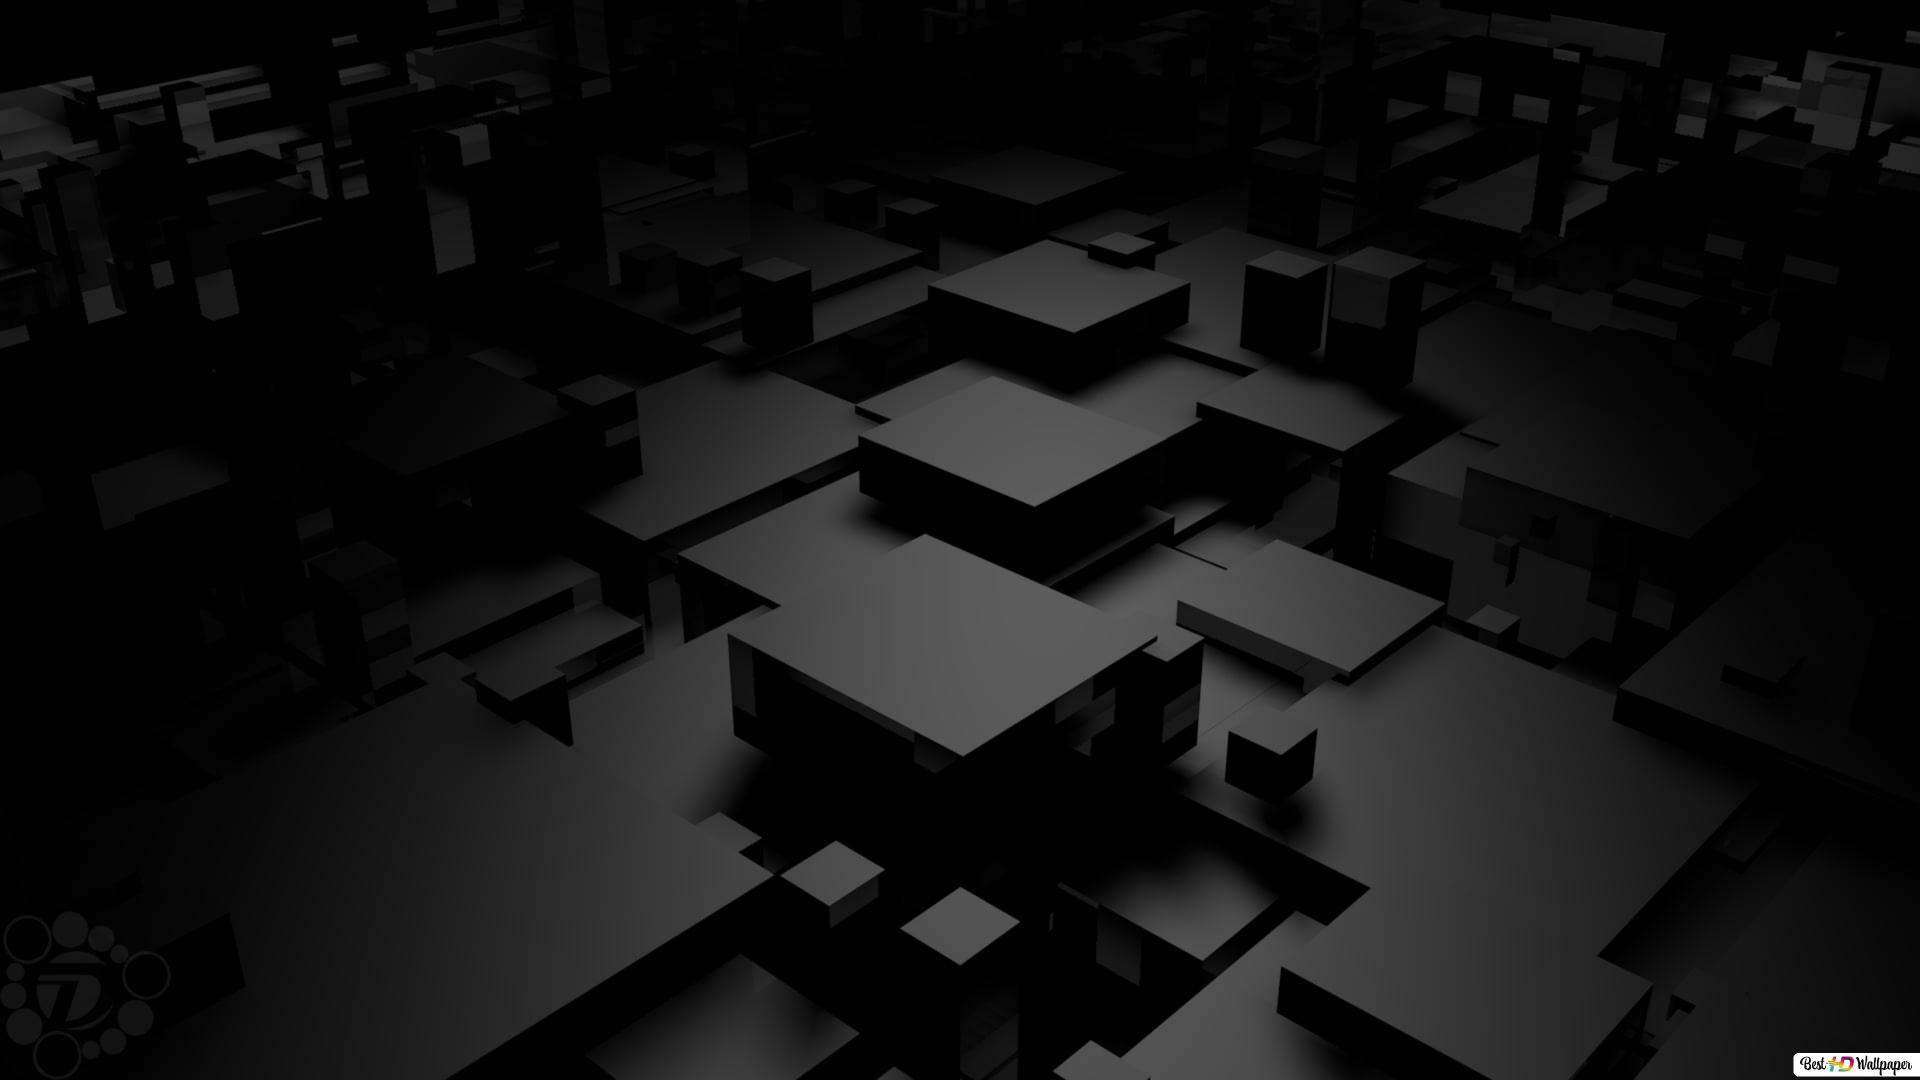
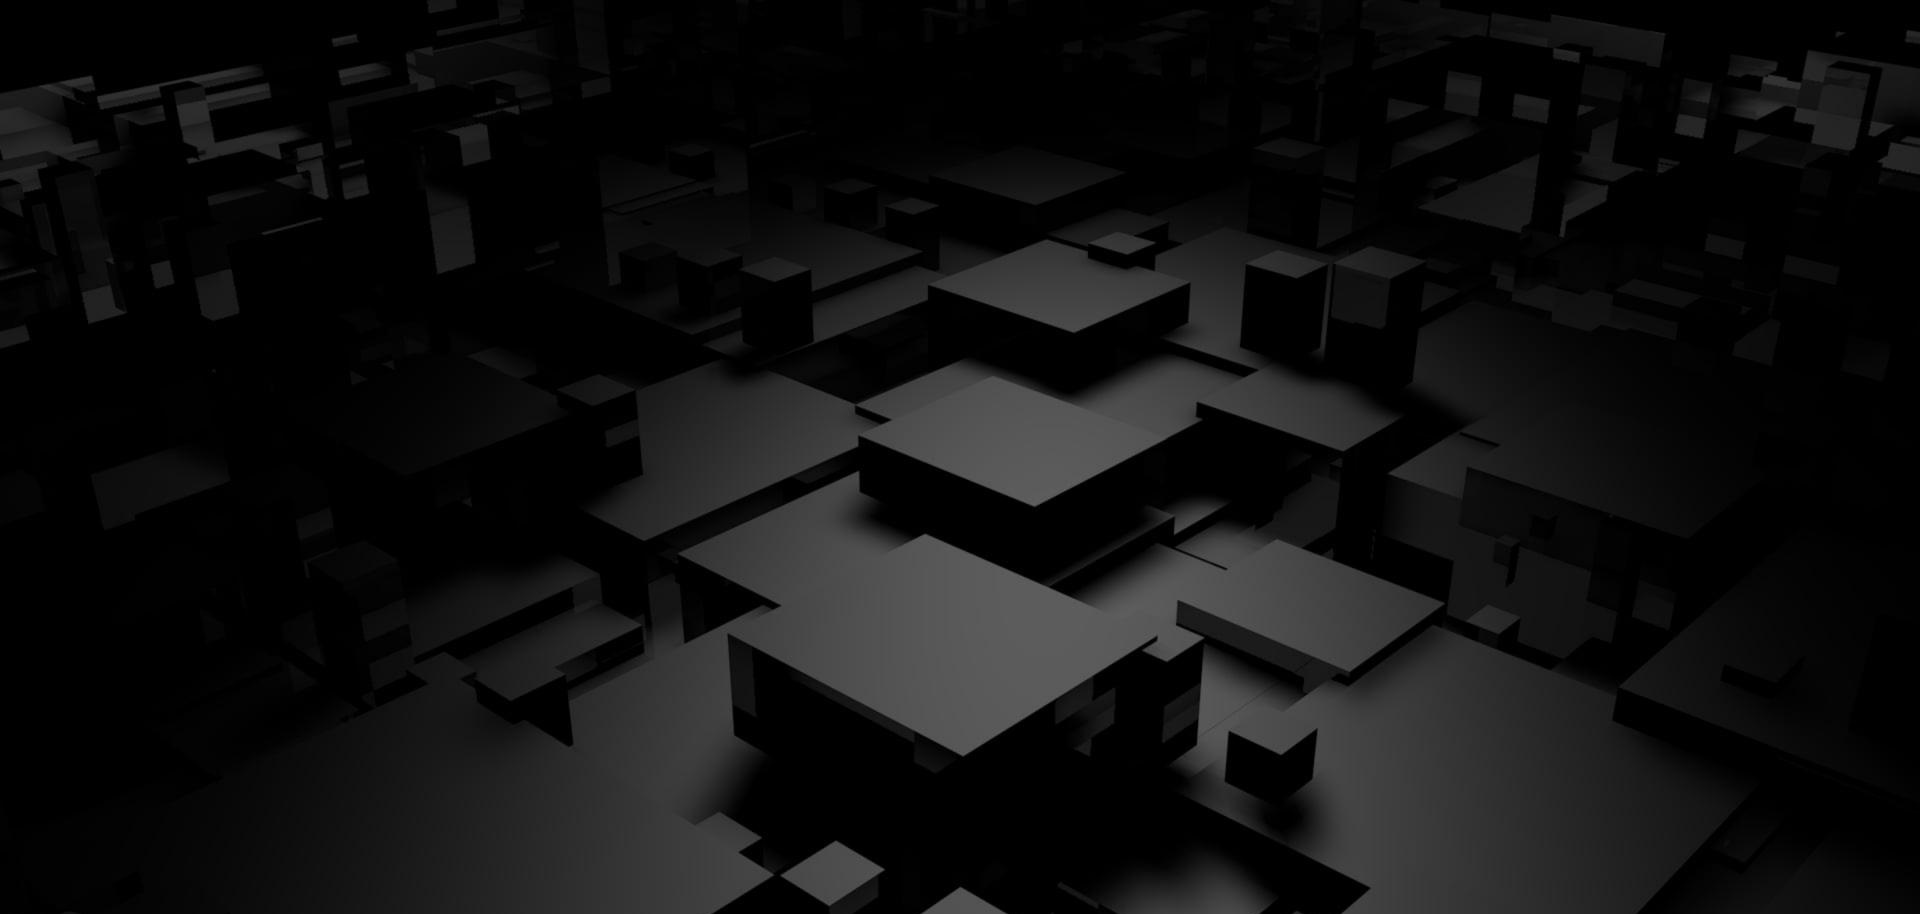
asdasd

diff --git a/style.css b/style.css
@@ -15,7 +15,7 @@
 
 body{
     background: url("./imagess/fondo.jpg");
-    background-size: 100% 120%;
+    background-size: 100% 100%;
     background-attachment: fixed;
 }
 
@@ -298,14 +298,8 @@ body{
     display: inline-block;
 }
 
-.razonN:hover{
-    background: var(--colorS);
-}
-
-.razon:hover{
-    background: var(--colorS);
-}
-
+.razonN:hover,
+.razon:hover,
 .razonN1:hover{
     background: var(--colorS);
 }
@@ -473,81 +467,64 @@ footer span a:hover{
 /* Resoluciones */
 
 @media (max-width: 1280px) {
-
     .razon{
         height: 410px;
     }
-
     .razonN{
         height: 370px;
     }
-
     .razones img{
         height: 80px;
     }
 }
 @media (max-width: 952px) {
-    
     .card{
         width: 90%;
         margin-left: 5%;
     }
-
-
     .slider-frame{
         float: none;
         margin: auto;
         margin-top: 30px;
     }
-
     .razon{
         width: 35%;
         margin-left: 10%;
         height: 390px;
     }
-
     .razonN{
         height: 510px;
     }
-
     .razonN1{
         height: 590px;
     }
-
     .carousel__elemento img{
         width: 100%;
     }
-
     .navbar .menu li a{
         margin-left: 12px;
     }
 }
 
-@media (max-width: 580px){
-    
+@media (max-width: 580px){  
     .logo a{
         font-size:45px;
     }
-
     .logo a span.G{
         font-size: 75px;
     }
-
     .contenedorr{
         font-size: 17px;
         width: 310px;
         font-weight: 600;
     }
-    
     .menu-btn{
         display: block;
         z-index: 999;
     }
-
     .menu-btn i.active:before{
         content: "\f00d";
     }
-
     .navbar .menu{
         position: fixed;
         height: 100%;
@@ -559,67 +536,53 @@ footer span a:hover{
         padding-top: 50px;
         transition: all 0.3s ease;
     }
-
     .navbar .menu.active{
         left: 0;
     }
-
     .navbar .menu li{
         display: block;
     }
-
     .navbar .menu li a{
         display: inline-block;
         margin: 20px 0;
         font-size: 25px;
     }
-
     .razon{
         width: 80%;
         margin-left: 10%;
         height: 310px;
     }
-
     .razonN{
         width: 90%;
         height: 480px;
     }
-
     .razonN1{
         height: 940px;
     }
-
     .card{
         width: 90%;
         margin-left: 5%;
         margin: auto;
         margin-top: 250px;
     }
-
     .card p{
         font-size: 18px;
     }
-
     .slider-frame{
         margin-top: 0px;
     }
-
     .slider-frame ul{
         width: 400%;
     }
-
     .navbar .menu li a{
         color: var(--Letras);
     }
-
     .navbar .menu li a:hover{
         color: var(--colorP);
     }
-
     .navbar .max-width{
         justify-content: left;
     }
-
     .carousel__indicadores .glider-dot{
         width: 20px;
     }

diff --git a/Contact.html b/Contact.html
@@ -7,12 +7,6 @@
     <title>Group Steel</title>
     <link rel="stylesheet" href="style.css">
     <link rel="stylesheet" href="Contact.css">
-    
-    <link href="https://fonts.googleapis.com/css?family=Raleway:100,400,700" rel="stylesheet">
-
-    <link href="https://fonts.googleapis.com/css?family=Oswald:200,400,700" rel="stylesheet">
-
-    <link rel="stylesheet" href="https://maxcdn.bootstrapcdn.com/font-awesome/4.5.0/css/font-awesome.min.css">
 </head>
 <body>
     

diff --git a/JS/app.js b/JS/app.js
@@ -1,17 +1,6 @@
 $(document).ready(function(){
-    $('.scroll-up-btn').click(function(){
-        $('html').animate({scrollTop: 0});
-        
-        $('html').css("scrollBehavior", "auto");
-    });
-    $('.navbar .menu li a').click(function(){
-        
-        $('html').css("scrollBehavior", "smooth");
-    });
-
     $('.menu-btn').click(function(){
         $('.navbar .menu').toggleClass("active");
         $('.menu-btn i').toggleClass("active");
     });
-
 });

diff --git a/Contact.css b/Contact.css
@@ -35,11 +35,8 @@
   margin-left: 62px;
 }
 
+.gmail,
 .phone {
-  margin-left: 53px;
-}
-
-.gmail {
   margin-left: 53px;
 }
 
@@ -120,10 +117,7 @@ bottom:0px;
     margin-left: 42px;
   }
   
-  .phone {
-    margin-left: 33px;
-  }
-  
+  .phone,
   .gmail {
     margin-left: 33px;
   }

diff --git a/JS/Modeloss.js b/JS/Modeloss.js
@@ -7,14 +7,5 @@ window.addEventListener('load', function(){
 			prev: '.carousel__anterior',
 			next: '.carousel__siguiente'
 		},
-		responsive: [
-			{ 
-			  breakpoint: 1980,
-			  settings: {
-				slidesToShow: 1,
-				slidesToScroll: 1
-			  }
-			}
-		]
 	});
 });
